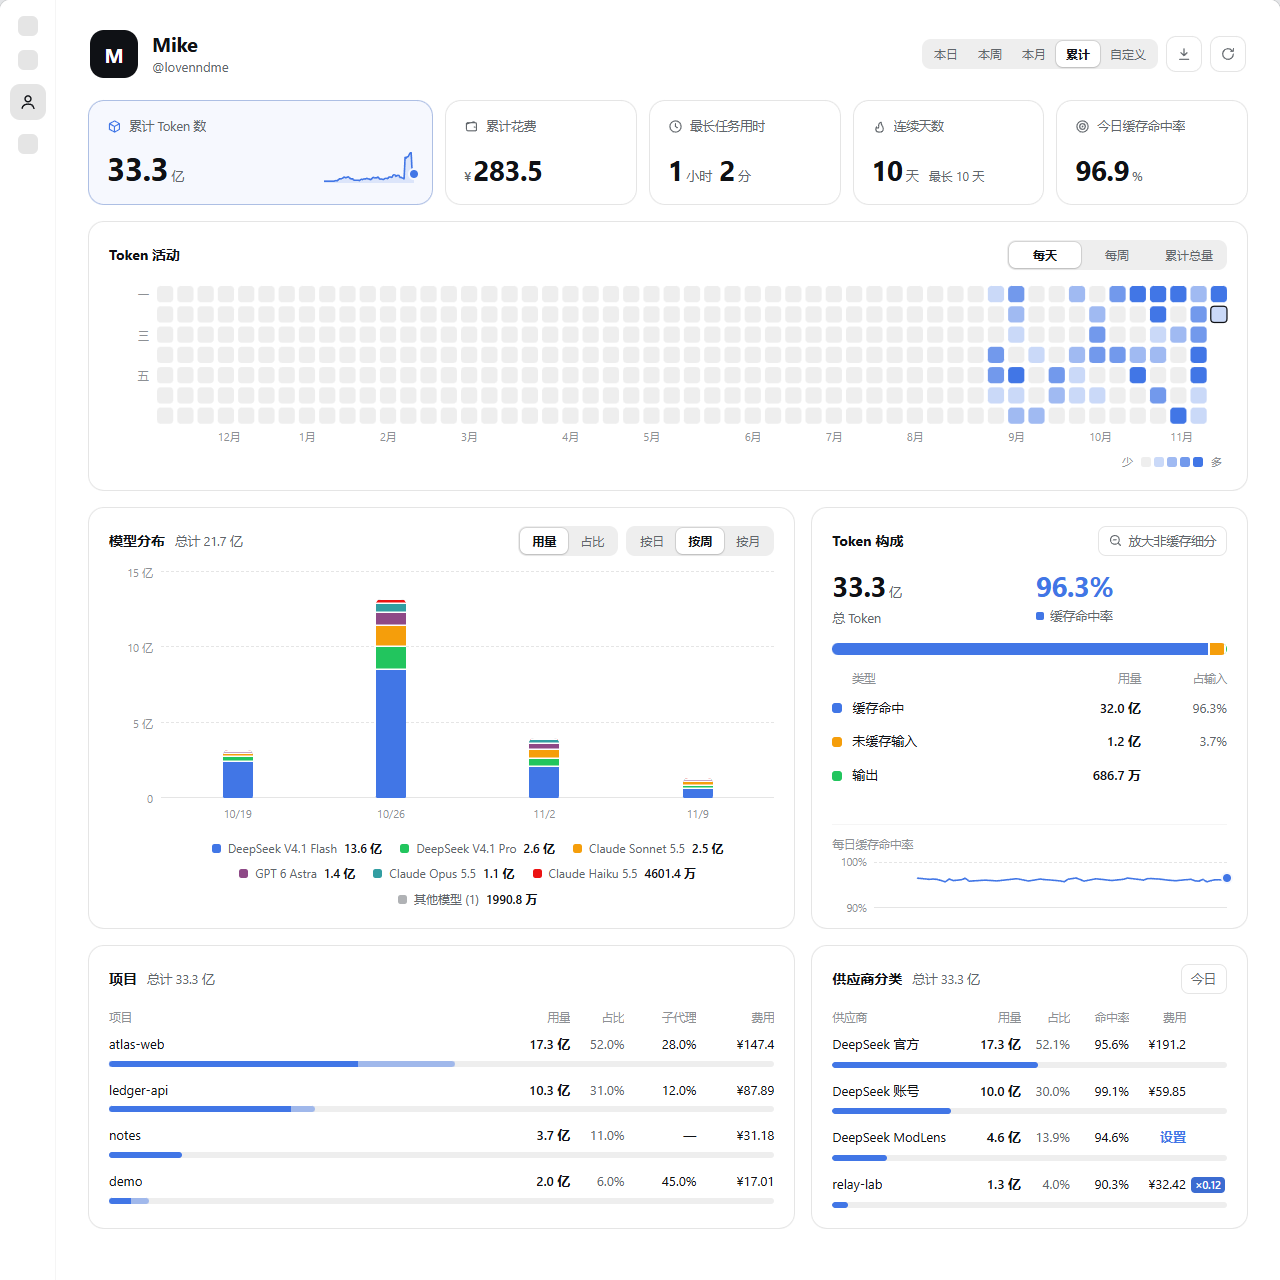
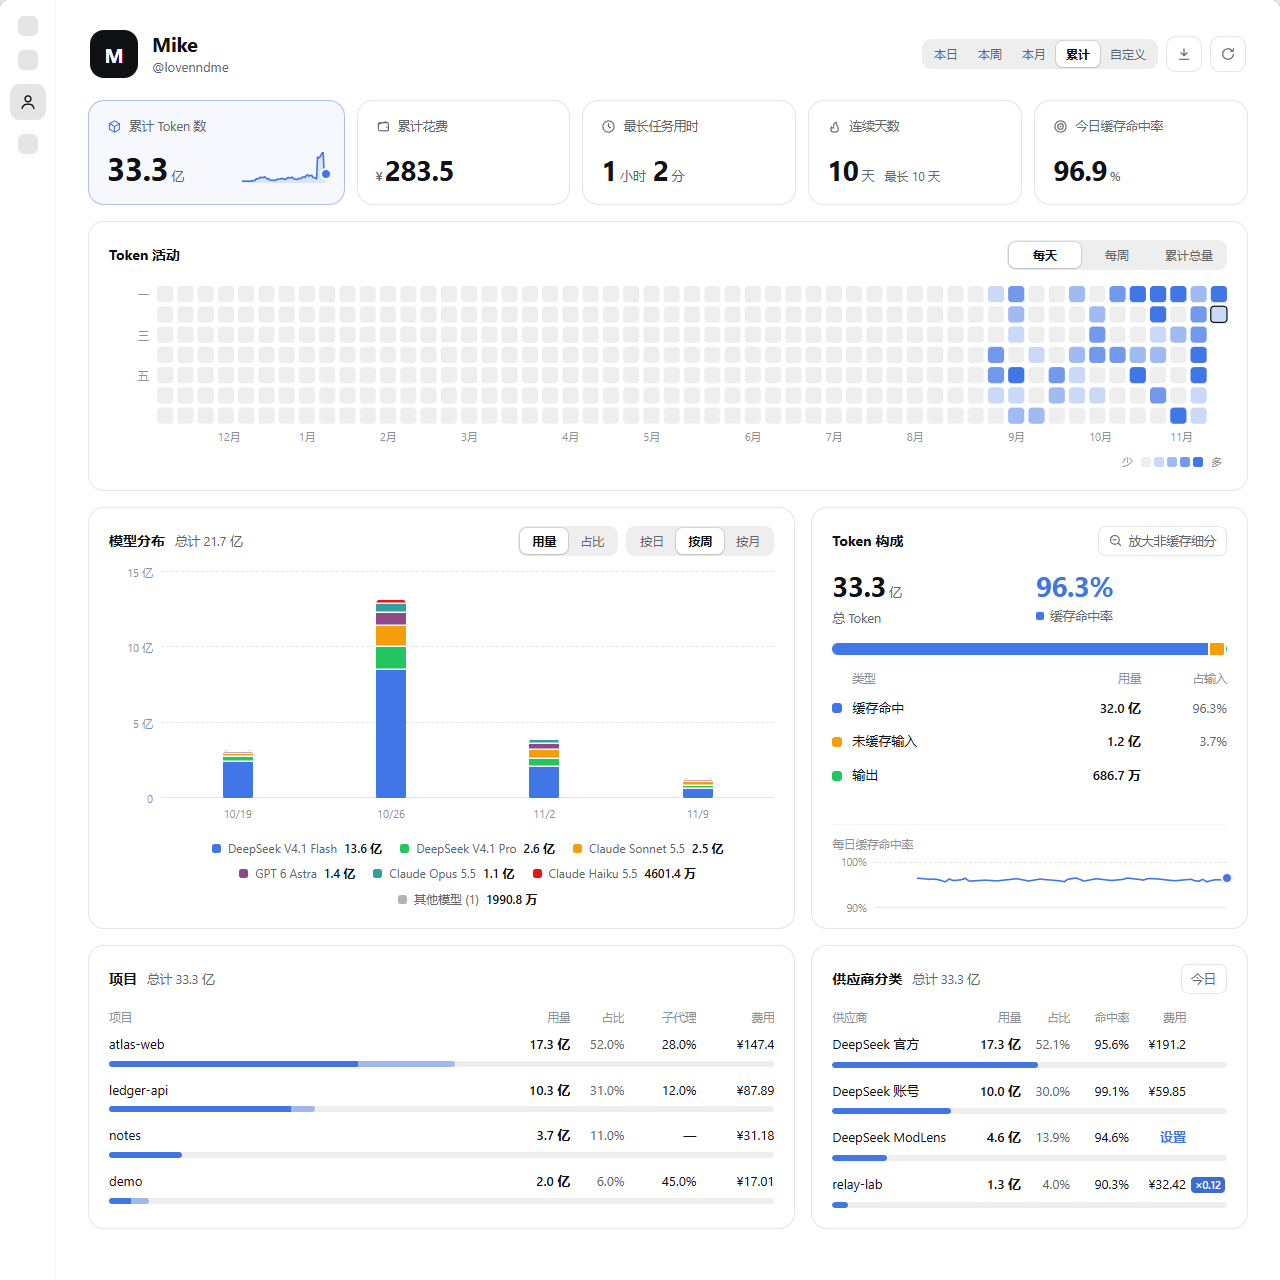
fix: the first card's delta sits above the trend; the card is narrower
The pill moves to the right of the label row, centred over the trend,
so the value row holds only the number and the trend. The first column
goes from 1.8fr to 1.2fr (about 257px at 1280, the other cards about
218px); the trend is 84px wide, 128px when the card takes half a row.

diff --git a/client.js b/client.js
@@ -3487,12 +3487,12 @@ font-size:13px;line-height:1.45;-webkit-font-smoothing:antialiased}
 .dps-seg button{appearance:none;position:relative;border:0;background:transparent;color:var(--dps-muted);font-size:12px;line-height:1;padding:7px 12px;border-radius:7px;cursor:pointer;white-space:nowrap;transition:color .15s ease}
 .dps-seg button:hover{color:var(--dps-ink)}
 .dps-seg button[aria-pressed="true"]{color:var(--dps-ink);font-weight:600}
-.dps-kpis{display:grid;grid-template-columns:minmax(0,1.8fr) repeat(4,minmax(0,1fr));gap:12px}
+.dps-kpis{display:grid;grid-template-columns:minmax(0,1.2fr) repeat(4,minmax(0,1fr));gap:12px}
 .dps-kpi{min-width:0;display:flex;flex-direction:column;justify-content:space-between;gap:16px;padding:16px 18px 18px;border:1px solid var(--dps-line);border-radius:var(--dps-radius);background:var(--dps-card)}
 .dps-kpi[data-hero="true"]{border-color:color-mix(in srgb,var(--dps-accent) 30%,var(--dps-line));background:color-mix(in srgb,var(--dps-accent) 5%,var(--dps-card))}
 .dps-kpi-label{display:flex;flex-wrap:wrap;align-items:center;gap:4px 7px;min-width:0;font-size:12.5px;color:var(--dps-muted)}
 .dps-kpi-label svg{width:15px;height:15px;flex:0 0 auto}
-.dps-kpi-label span{white-space:nowrap;overflow:hidden;text-overflow:ellipsis}
+.dps-kpi-label > span{white-space:nowrap;overflow:hidden;text-overflow:ellipsis}
 .dps-kpi[data-hero="true"] .dps-kpi-label svg{color:var(--dps-accent)}
 .dps-kpi-body{display:flex;align-items:flex-end;justify-content:space-between;gap:24px;min-width:0}
 .dps-kpi-main{display:flex;flex-wrap:wrap;align-items:baseline;gap:6px 10px;flex:0 0 auto;max-width:100%}
@@ -3501,11 +3501,14 @@ font-size:13px;line-height:1.45;-webkit-font-smoothing:antialiased}
 .dps-kpi-slot > *{grid-area:1 / 1}
 .dps-kpi-ghost{display:flex;align-items:baseline;white-space:nowrap;font-variant-numeric:tabular-nums;visibility:hidden;pointer-events:none}
 .dps-kpi-ghost [data-ghost]::before{content:attr(data-ghost)}
-.dps-kpi[data-hero="true"]{container:dps-hero / inline-size}
+.dps-kpi[data-hero="true"]{container:dps-hero / inline-size;--dps-trend-w:84px}
+.dps-kpi[data-hero="true"] .dps-kpi-label{flex-wrap:nowrap}
+.dps-kpi[data-hero="true"] .dps-kpi-label > span{flex:0 1 auto;min-width:0}
 .dps-kpi[data-hero="true"] .dps-kpi-body{gap:14px}
-.dps-kpi-dslot{display:flex;align-items:center;align-self:center;min-width:80px}
-.dps-kpi-aside{flex:0 1 120px;min-width:0;margin-left:auto;margin-bottom:3px}
-@container dps-hero (max-width:250px){.dps-kpi-aside{display:none}}
+.dps-kpi-dslot{flex:0 1 var(--dps-trend-w);display:flex;justify-content:center;margin-left:auto;min-width:0}
+.dps-kpi-dslot .dps-delta{margin:-3px 0}
+.dps-kpi-aside{flex:0 1 var(--dps-trend-w);min-width:0;margin-left:auto;margin-bottom:3px}
+@container dps-hero (max-width:170px){.dps-kpi-aside{display:none}}
 .dps-spark-area{fill:color-mix(in srgb,var(--dps-accent) 14%,transparent)}
 .dps-spark-bars{display:flex;align-items:flex-end;justify-content:space-between;gap:3px;height:32px}
 .dps-spark-bar{flex:1 1 0;min-width:0;max-width:20px;border-radius:2px 2px 0 0;background:color-mix(in srgb,var(--dps-accent) 38%,transparent);transition:background-color .12s ease}
@@ -3551,6 +3554,7 @@ body[data-ds-dark-theme] .dps-date{color-scheme:dark}
 .dps-kpis{grid-template-columns:repeat(6,minmax(0,1fr))}
 .dps-kpi{grid-column:span 2}
 .dps-kpi[data-hero="true"],.dps-kpi[data-dps-kpi="cost"]{grid-column:span 3}
+.dps-kpi[data-hero="true"]{--dps-trend-w:128px}
 .dps-grid[data-row="lists"]{grid-template-columns:minmax(0,1fr)}
 .dps-grid{grid-template-columns:minmax(0,1fr)}
 }
@@ -4288,7 +4292,7 @@ body[data-ds-dark-theme] .dps-cost-tag:not([data-error="true"]){background:var(-
           'data-hero': props.hero ? 'true' : 'false',
           title: props.title || undefined,
         },
-        h('div', { className: 'dps-kpi-label' }, h(Icon, { name: props.icon }), h('span', null, props.label)),
+        h('div', { className: 'dps-kpi-label' }, h(Icon, { name: props.icon }), h('span', null, props.label), props.badge || null),
         h(
           'div',
           { className: 'dps-kpi-body' },
@@ -4372,9 +4376,9 @@ body[data-ds-dark-theme] .dps-cost-tag:not([data-error="true"]){background:var(-
           label: rangeLabel,
           raw: ready ? summary.tokens : undefined,
           parts: ready ? tokenValue(shownRange) : null,
-          // 环比排在数字格后面；数字格按最宽的写法占位，环比的位置不随数字的位数变。最宽的写法：一亿以下是四位整数的「万」，英文是三位整数的 M。
-          // 环比放在固定宽度的槽里：没有环比的范围（本日、累计）槽也留着，右边趋势的宽度和位置不变
-          extra: h('span', { className: 'dps-kpi-dslot' }, deltaChip),
+          // 环比在标签行右边、趋势的正上方（两者同宽、居中对齐）。数字格按最宽的写法占位（一亿以下是四位整数的「万」，
+          // 英文是三位整数的 M）：数字滚动时位数在变，放不放得下趋势按最宽的数算，趋势不跟着伸缩
+          badge: deltaChip ? h('div', { className: 'dps-kpi-dslot' }, deltaChip) : null,
           aside: h(TokenTrend, { trend: ready ? props.trend : null }),
           reserve: isChineseLocale() ? { value: '8888.8', unit: '万' } : { value: '888.8', unit: 'M' },
         }),

diff --git a/docs/INTERNALS.md b/docs/INTERNALS.md
@@ -11,7 +11,7 @@ Back to the [README](../README.md) · [中文 README](../README.zh.md)
 | Streaks | An active day has at least one token. The current streak ends today, or yesterday when today has no activity yet. One card shows the current streak with the longest beside it. |
 | Cache hit today | Today's cache read ÷ (uncached input + cache read + cache write); "—" until today has input. |
 | Token activity | Last 53 weeks (this week plus 52), weeks start on Monday. *Daily* colours each day by the quartile of non-zero days; *Weekly* draws one bar per week total; *Cumulative* is the running total including usage older than the window, so its last point equals the cumulative tokens. |
-| Time range | Header switch: today, this week (Monday to today), this month (the 1st to today), all time (the default), or custom dates (two date fields; reversed dates are swapped, the end is capped at today, and the window may lie entirely in the past, in which case the charts and the delta end at its last day). The first number, Token mix and the provider split are summed from daily entries inside the range, so they always agree (the model distribution does not follow the range, see below); longest task and the streaks stay all-time, and today's tokens are the first number with the range set to today. The first card's row is three fixed slots. The number's slot is sized for the widest value it can show (`8888.8 万`, `888.8M`); the change against the previous period is a pill (arrow and percentage, red up, green down) in a slot of its own that stays even when there is no delta; the trend takes what is left on the right, up to 120px, and is hidden when less than about 40px would be left. So nothing moves when the range changes or while the number counts. The trend is bars for today (the last 7 days, today highlighted) and this week (the last 4 weeks, each bar the week's total, this week up to today and highlighted), a daily line for this month and for custom windows of up to 31 days, and the 7-day moving average for all time (the last 90 days) and longer custom windows. A line with a single day (the 1st of the month) is not drawn. Hovering shows the day or the week's dates and the value. The delta compares the finished days of the current period (today excluded) with the same number of days at the start of the previous period — for this week, the same days (Monday on) of last week; for this month, the same days of last month, capped at its last day; for a custom window, the window of equal length before it — and is hidden when the previous period starts before the first day with data. Export writes the selected range as CSV (one row per day: `input`, `output`, `cache_read`, `cache_write`, then a column per provider) or JSON (adds each provider's four parts and `usageMismatchCalls`). |
+| Time range | Header switch: today, this week (Monday to today), this month (the 1st to today), all time (the default), or custom dates (two date fields; reversed dates are swapped, the end is capped at today, and the window may lie entirely in the past, in which case the charts and the delta end at its last day). The first number, Token mix and the provider split are summed from daily entries inside the range, so they always agree (the model distribution does not follow the range, see below); longest task and the streaks stay all-time, and today's tokens are the first number with the range set to today. The first card has the number on the left and the trend on the right (84px wide, 128px when the card takes half a row below 1040px); the change against the previous period is a pill (arrow and percentage, red up, green down) at the right of the label row, centred above the trend. The number's slot is sized for the widest value it can show (`8888.8 万`, `888.8M`), so whether the trend fits is decided by that width, not by the counting number: nothing moves when the range changes or while the number counts. The trend shrinks only when the card is too narrow and is hidden when less than about 40px would be left. The trend is bars for today (the last 7 days, today highlighted) and this week (the last 4 weeks, each bar the week's total, this week up to today and highlighted), a daily line for this month and for custom windows of up to 31 days, and the 7-day moving average for all time (the last 90 days) and longer custom windows. A line with a single day (the 1st of the month) is not drawn. Hovering shows the day or the week's dates and the value. The delta compares the finished days of the current period (today excluded) with the same number of days at the start of the previous period — for this week, the same days (Monday on) of last week; for this month, the same days of last month, capped at its last day; for a custom window, the window of equal length before it — and is hidden when the previous period starts before the first day with data. Export writes the selected range as CSV (one row per day: `input`, `output`, `cache_read`, `cache_write`, then a column per provider) or JSON (adds each provider's four parts and `usageMismatchCalls`). |
 | Token mix (Cache Lens) | The four parts as logged, nothing inferred: cache hit = `cacheReadTokens`, cache write = `cacheWriteTokens` (a row only when non-zero), uncached input = `inputTokens`, output = `outputTokens`; they add up to the total. **Cache hit rate = cache hit ÷ (uncached input + cache hit + cache write)**: a write is billed and is not a hit, so it is in the denominator only. Without writes this is DeepSeek's hit ÷ (hit + miss). The percentage column is over all input (so the cache-hit row equals the hit rate), output has none; the zoomed view's denominator is everything except hits (uncached input + cache write + output), which its column header says. Underneath, the daily cache hit rate over the days of the selected range (the last 90 days for all time); days without input have no rate and the line joins across them; the axis runs from the lowest value rounded down to 5% up to 100%. |
 | Model split | Independent of the header range: its own switch picks the granularity (default weekly) and each granularity has a fixed window of calendar buckets ending with the one that holds today, empty buckets included — daily: the last 7 days; weekly: the last 4 Monday-based weeks; monthly: the last 6 months. The last week / month bucket is partial (up to today). The header total is the sum of that window, so it differs from the first card unless the ranges coincide. DeepSeek ids are grouped by version and tier (`deepseek-v4-1-flash-261017`, `deepseek-v4.1-flash` → DeepSeek V4.1 Flash; the unversioned official `deepseek-flash` alias → V4.1 Flash). Other vendors keep their own family (`gemini-2-5-pro` → Gemini 2.5 Pro). The top six families get their own colour; the rest are merged into "Other models (N)". The **Share** switch swaps the columns for a pie of the same window: one slice per family (clockwise from 12 o'clock, largest first, "Other" last), a percent label outside the circle for slices of 6% or more, 2 px surface gaps between slices; the legend then lists percentages (hovering a legend entry highlights its slice) and the hover / keyboard tooltip gives the share and the token amount. The header total stays in tokens. |
 | Provider breakdown | Per-step `data.message.source.provider`, e.g. `deepseek-official`, `deepseek-account`. Shares are of the selected range's total; unknown ids are shown as they are. Each row has its own cache hit rate from that provider's four parts (the "Other" row uses their combined parts). The **Today** button shows today only; switching the header range releases it. The pencil beside a name renames that provider on this machine only (see *Provider names* below). |

diff --git a/CONTRIBUTING.md b/CONTRIBUTING.md
@@ -158,7 +158,7 @@ discussion are. You can open issues and pull requests in English or Chinese; com
 - **文案成对。** 所有可见文字走 `client.js` 里的 `EN` / `ZH` 字典，两种语言在同一个提交里一起加。未知的供应商 id 原样显示。
 - **不崩、不空白。** 数据为空 / 为 0 / 只有一条 / 未来日期时，所有卡片仍要渲染；页面里不能出现 `NaN`、`Infinity`、`undefined`，也不能出现大于 100% 的百分比。
 - **无障碍。** 所有可交互元素键盘可达并有 `:focus-visible` 样式；动效尊重 `@media (prefers-reduced-motion: reduce)`；纯图形按钮要有 `aria-label`。
-- **布局稳定。** 切换时间范围、粒度、视图时不要让布局跳动，指标卡的数字与环比不能被压缩，第一张卡的数字、环比、趋势各占固定的位置（让出空间的是趋势；卡片放不下时环比换到数字下面一行）；页面在 1280px、900px、760px 宽度下都要可用。
+- **布局稳定。** 切换时间范围、粒度、视图时不要让布局跳动，指标卡的数字与环比不能被压缩，第一张卡的数字、趋势各占固定的位置，环比在趋势正上方（卡片窄时让出空间的是趋势）；页面在 1280px、900px、760px 宽度下都要可用。
 - **组件生命周期。** 定时器、事件监听要清理；注意 `useEffect` 依赖与过期闭包；不要声明名为 `window` 的局部变量（会遮住全局对象，曾导致更新后 `window.location.reload()` 报错，有测试专门守着）。
 - **保持纯函数可测。** 派生数据（占比、分桶、坐标轴、格式化）写成 `factory` 里的顶层函数。测试是按函数名从 `client.js` 源码里切出来求值的
   （`test/helpers/client-source.mjs`）：**改名或内联这些函数会让测试报错，那是在提醒你同步更新测试**，不是测试写坏了。

diff --git a/README.md b/README.md
@@ -33,7 +33,7 @@ dsh-profile-stats
 
 | | Section | What it shows |
 |---|---|---|
-| 📊 | **Five headline numbers** | Tokens in the selected range (with the change against the previous period beside the number, and a small trend: the last 7 days as bars for today, the last 4 weeks for this week, a daily line for this month), its spend, longest task, the active-day streak with your best, today's cache hit rate |
+| 📊 | **Five headline numbers** | Tokens in the selected range (with a small trend beside it — the last 7 days as bars for today, the last 4 weeks for this week, a daily line for this month — and the change against the previous period above the trend), its spend, longest task, the active-day streak with your best, today's cache hit rate |
 | 🗓 | **Token activity** | A 12-month day grid, switchable between daily, weekly and running-total views |
 | 🧩 | **Model distribution** | Stacked columns by model family (version + tier, so `v4-flash` and `v4.1-flash` stay apart) by day (last 7 days), week (last 4 weeks) or month (last 6 months) — independent of the header range — as stacked columns of token amounts, or as a pie of each model's share of the window |
 | 🎯 | **Cache Lens** | Total tokens plus the cache hit rate, and the cache-hit / uncached-input / output split (plus cache write when a provider reports it) as a segmented bar, with a zoom into the uncached part and the daily cache hit rate underneath |

diff --git a/README.zh.md b/README.zh.md
@@ -33,7 +33,7 @@ dsh-profile-stats
 
 | | 区块 | 说明 |
 |---|---|---|
-| 📊 | **五个核心数字** | 所选范围内的 Token（数字右边是与上一周期的对比，再右边是小趋势：本日画最近 7 天的柱，本周画最近 4 周的柱，本月画每天的折线）和花费、最长任务用时、连续天数（附最长纪录）、今日缓存命中率 |
+| 📊 | **五个核心数字** | 所选范围内的 Token（右边是小趋势：本日画最近 7 天的柱，本周画最近 4 周的柱，本月画每天的折线；趋势上方是与上一周期的对比）和花费、最长任务用时、连续天数（附最长纪录）、今日缓存命中率 |
 | 🗓 | **Token 活动** | 近 12 个月日格热力图，可在「每天 / 每周 / 累计总量」之间切换 |
 | 🧩 | **模型分布** | 按模型家族堆叠（版本 + 档位分开，`v4-flash` 与 `v4.1-flash` 不会混在一起），不跟页头范围走，自己选按日（最近 7 天）/ 周（最近 4 周）/ 月（最近 6 个月），用量用堆叠柱，占比用饼图（各模型占这段时间总量的比例） |
 | 🎯 | **Token 构成（Cache Lens）** | 总 Token 与缓存命中率，以及「缓存命中 / 未缓存输入 / 输出」分段占比条（供应商报了缓存写入时多一段），可放大查看非缓存部分的构成；底部是每日缓存命中率 |
